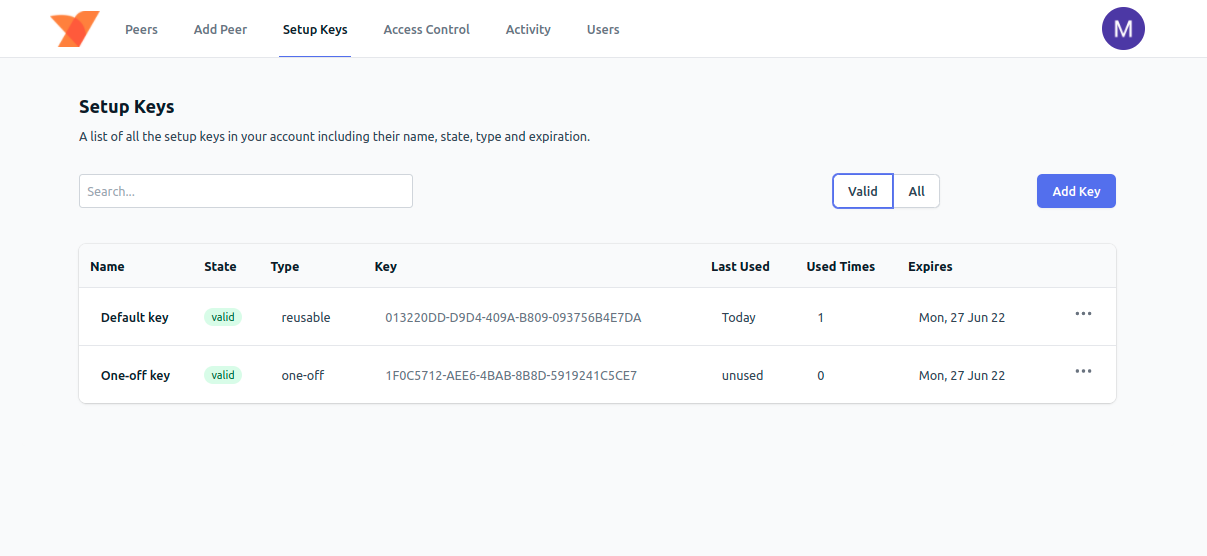
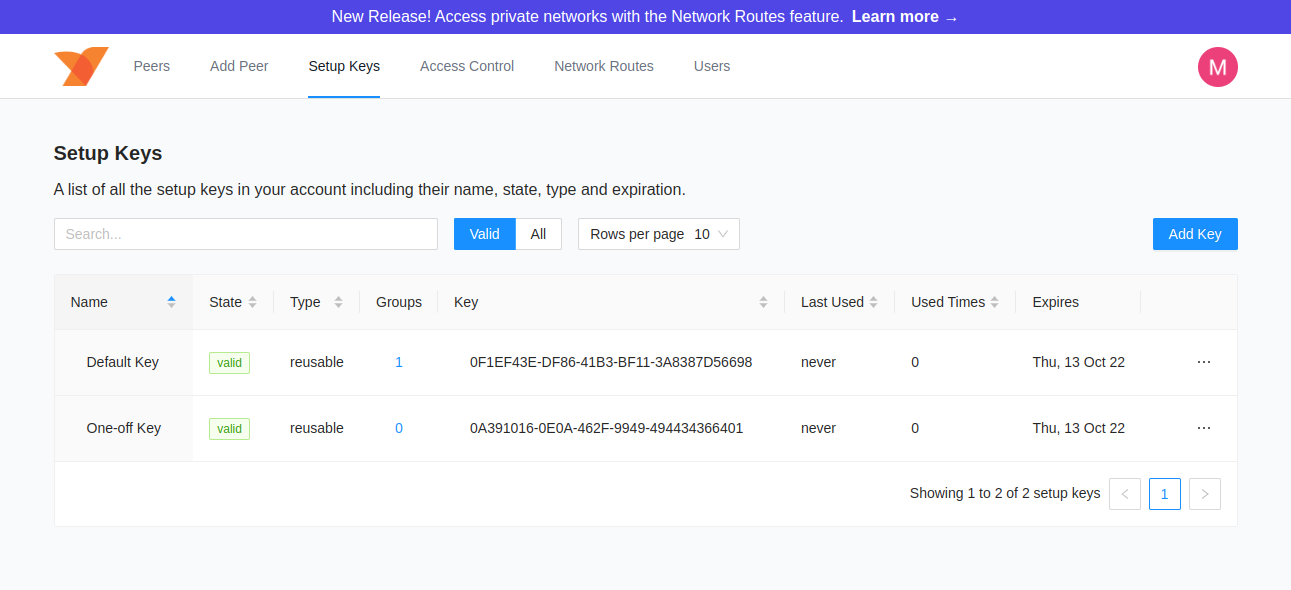
Add Peer auto-grouping doc

diff --git a/docs/overview/setup-keys.md b/docs/overview/setup-keys.md
@@ -34,3 +34,21 @@ When revoking a key, all machines authenticated with this key will remain connec
 ### Expiration
 
 Setup keys are set to expire after 30 days. When expired, the setup key can't be used anymore.
+
+### Peer Auto-grouping
+
+NetBird offers a powerful [Access Control feature](/overview/acls) that allows easy access management of your resources. 
+In a basic scenario, you would create multiple groups of peers and create access rules to define what groups can access each other. 
+Adding peers to groups might become time-consuming in large networks with dozens of machines.
+
+<p align="center">
+    <img src="/docs/img/architecture/netbird-peer-auto-tagging-newkey.png" alt="high-level-dia" width="600" style={{boxShadow: '0 4px 8px 0 rgba(0, 0, 0, 0.2), 0 6px 20px 0 rgba(0, 0, 0, 0.19)'}} />
+</p>
+
+Starting NetBird [v0.9.2](https://github.com/netbirdio/netbird/releases), when creating or updating a setup key, 
+it is possible to specify a list of auto-assign groups. Every peer registered with this key will be automatically added 
+to these groups. All the access control rules enabled for these groups will apply automatically.
+
+<p align="center">
+    <img src="/docs/img/architecture/peer-auto-tagging-setupkey.gif" alt="high-level-dia" width="800" style={{boxShadow: '0 4px 8px 0 rgba(0, 0, 0, 0.2), 0 6px 20px 0 rgba(0, 0, 0, 0.19)'}} />
+</p>

diff --git a/docs/overview/acls.md b/docs/overview/acls.md
@@ -30,6 +30,10 @@ Some characteristics of groups:
 - They can only be deleted via API.
 - There is a default group called `All`.
 
+:::tip peer auto-grouping
+You can assign groups automatically with the [peer auto-grouping feature](/overview/setup-keys#peer-auto-grouping).
+:::
+
 ### The All Group
 The `All` group is a default group to which every peer in your network is automatically added to. This group cannot be modified or deleted.
 ### Rules
@@ -91,6 +95,10 @@ You can do it by accessing the `Peers` tab and clicking the `Groups` column of a
 <p align="center">
     <img src="/docs/img/overview/associate-peer-groups.png" alt="high-level-dia" width="300" style={{boxShadow: '0 4px 8px 0 rgba(0, 0, 0, 0.2), 0 6px 20px 0 rgba(0, 0, 0, 0.19)'}} />
 </p>
+
+:::tip peer auto-grouping
+You can assign groups automatically with the [peer auto-grouping feature](/overview/setup-keys#peer-auto-grouping).
+:::
 
 ### Updating Rules
 To update a rule, you can click on the rule's `Name` or on either `Sources` and `Destinations` columns. You could also click the menu 
